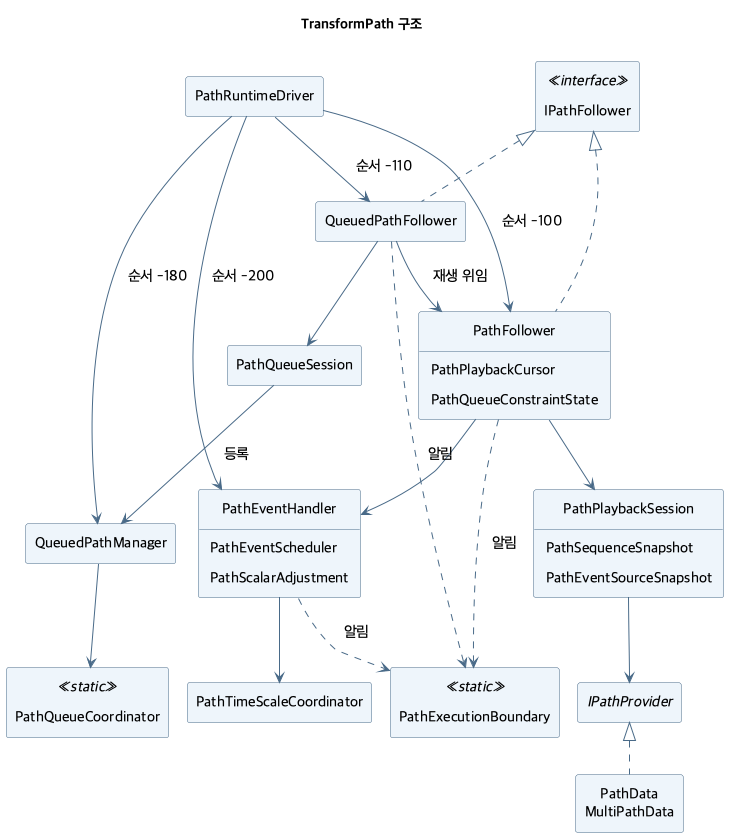
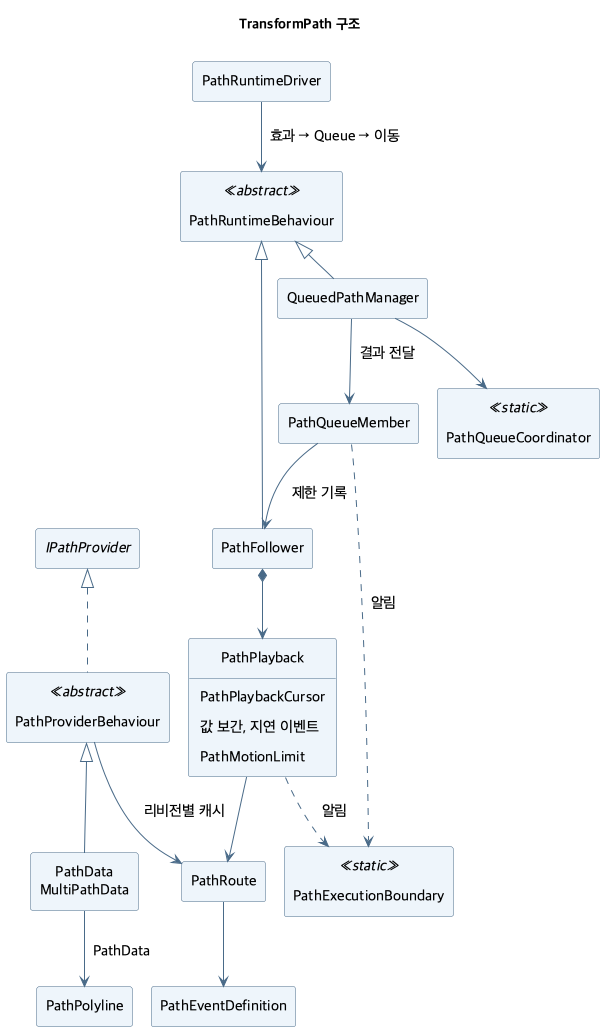
TransformPath 문서, UML, 테스트 실행 스크립트를 새 구조에 맞춤
README의 재생 API, Queue, 이벤트 절과 TechnicalNotes를 새 구조로 다시 쓰고
구조 규칙 절을 추가한다. UML 세 개를 고쳐 다시 렌더링한다.
EditMode 테스트를 스냅샷 worktree에서 돌리는 Tools/run-transformpath-tests.sh를 추가한다.

diff --git a/ToyProject/Assets/_TransformPath/Docs/TechnicalNotes.md b/ToyProject/Assets/_TransformPath/Docs/TechnicalNotes.md
@@ -6,43 +6,54 @@
 
 | 어셈블리 | 내용 |
 | --- | --- |
-| `Common.TransformPath.Runtime` | 계약, Provider, 재생, 이벤트, Queue |
+| `Common.TransformPath.Runtime` | 계약, Provider, Route, 재생, 이벤트, Queue |
 | `Common.TransformPath.Editor` | Inspector, 연결점과 그룹 동기화, Scene View 미리보기 |
+| `Common.TransformPath.Tests` | EditMode 테스트(기하, Route, 재생 엔진, Queue 계산) |
 | `Common.TransformPath.Samples` | Showcase UI, 샘플 카메라 |
 | `Common.TransformPath.PlayerProbe` | Player 측정 (`Tools/run-transformpath-probe.sh`). Editor와 측정 빌드에서만 컴파일 |
 
+Runtime 폴더는 역할로 나눕니다: `Core`(계약, 상수, 이벤트 정의), `Geometry`, `Providers`, `Playback`, `Queue`, `Execution`(Driver, Boundary), `Components`, `Utilities`.
+
+## 구조 규칙
+
+1. **상태 소유자는 하나입니다.** 재생 상태는 `PathPlayback`, Queue 순서와 계산은 `QueuedPathManager`, 경로 데이터는 Provider만 바꿉니다. 다른 타입은 읽기만 하고 사본을 두지 않습니다.
+2. **변경 판정은 Provider가 한 번만 합니다.** `PathProviderBehaviour.Rebuild`가 이전 게시와 비교해 `Revision`과 `DefinitionRevision`을 올리고, 소비자는 이 두 값만 비교합니다.
+3. **순수 계산과 Unity 연결을 나눕니다.** `PathPolyline`, `PathRoute`, `PathPlaybackCursor`, `PathPlayback`, Queue 계산은 MonoBehaviour와 정적 상태에 기대지 않아 EditMode 테스트로 검증합니다. 컴포넌트는 직렬화, 생명주기, Transform 적용만 맡습니다.
+4. **검증은 경계에서 한 번만 합니다.** 공개 명령의 입력과 Provider 빌드만 검증합니다.
+5. **공통 값과 헬퍼는 한 곳에 둡니다.** 상수는 `PathConstants`, 수치 검증과 곡선 복사는 `PathValueUtility`, 정렬은 `PathSortUtility`, 1회 오류 보고는 `PathConfigurationErrorReporter`입니다.
+6. **인터페이스는 교체할 이유가 있을 때만 둡니다.** 공개 인터페이스는 `IPathProvider`와 `IPathEventReceiver`뿐입니다.
+
 ## 수명 규칙
 
+- **실행 순서:** `PathRuntimeDriver`가 매 프레임 세 단계를 실행합니다. 효과(Follower의 값 보간과 지연 이벤트) → Queue(Manager의 계산과 멤버의 제한 기록) → 이동(Follower). 같은 단계에서는 등록 순서를 따릅니다.
+- **프레임 고정:** Tick 시작에 대상, PlaybackId, 등록 버전을 복사하고 실행 직전에 다시 비교합니다. 그 프레임에 등록하거나 재생이 바뀐 대상은 다음 프레임부터 실행합니다.
 - **외부 코드:** 공개 명령과 Tick은 `PathExecutionBoundary.Enter()`로 작업을 엽니다. 가장 바깥 작업이 끝나면 쌓인 리스너와 수신기를 선입선출로 호출합니다. 호출 중 생긴 알림은 큐 끝에 붙어 중첩되지 않습니다. 호출 직전에 구독 여부를 다시 확인하고, 한 번에 10만 건을 넘으면 오류를 기록하고 남은 알림을 버립니다.
-- **내부 관찰:** `QueuedPathFollower`는 작업 안에서 반응해야 하므로 `PathFollower`의 `ObservedStateChanged`, `ObservedSegmentChanged`, `ObservedCompleted`, `LoopBoundary`를 동기로 받습니다. 시작을 거부하면 리스너는 남은 상태만 듣습니다.
 - **PlaybackId:** 재생을 시작할 때마다 새로 발급하고 Seek와 Pause에서는 유지합니다. 재생이 끝나면 0입니다.
-- **StateRevision:** 명령이 재생 상태를 바꿀 때마다 올립니다. Seek는 위치가 바뀔 때만 올립니다.
-- **프레임 고정:** `PathRuntimeDriver`는 Tick 시작에 대상, PlaybackId, 등록 버전을 복사하고 실행 직전에 다시 비교합니다. 그 프레임에 등록하거나 재생이 바뀐 대상은 다음 프레임부터 실행합니다.
-- **실패 격리:** Tick 예외는 `Faults`에 모으고 `HandleRuntimeFault`로 해당 재생을 정리합니다. 다른 대상은 계속 실행하고 `PathRuntimeDriverBehaviour`가 예외를 기록합니다.
-- **완료 순서:** 끝점 위치와 남은 이벤트 → 재생 효과와 제약 정리 → CharacterController 복원 → `StateChanged(Completed)` → `Completed`.
+- **실패 격리:** Tick 예외는 `Faults`에 모으고 `OnTickFault`로 해당 재생을 정리합니다. 다른 대상은 계속 실행하고 `PathRuntimeDriverBehaviour`가 예외를 기록합니다.
+- **완료 순서:** 끝점의 남은 이벤트 → 재생 효과 정리 → CharacterController 복원 → `StateChanged(Completed)` → `Completed`.
 - **전환 한도:** 한 Tick의 구간 전환은 65회까지입니다. 남은 시간은 다음 Tick으로 넘기고, Pause, Stop, Seek에서 버립니다.
 
-## 재생
+## 경로와 재생
 
-- `PathPlaybackSession`은 Single과 Sequence의 차이를 경로 접근자(`GetLength`, `GetEventSource`, `Sample`, `FindSegment`, `GetMovementSettings` 등) 뒤에 숨깁니다. 같은 Provider와 Revision이면 다음 시작에서 재사용합니다.
+- `PathData`는 Transform 제어점을 곡선별로 샘플링한 `PathPolyline`을 발행합니다. 위치는 누적 거리로 보간하므로 진행률이 일정하면 샘플 사이에서 속도가 일정합니다. 스플라인은 매개변수로 샘플링하므로 샘플 수가 적으면 구간마다 속도가 달라집니다(테스트 기준 500샘플에서 최대 편차 0.05% 이하).
+- `MultiPathData`는 `PathData`만 구간으로 받습니다. 자식의 `PathChanged`를 구독해 자식이 바뀌면 다시 빌드하므로 자식을 폴링하지 않습니다. 빌드할 때 아직 빌드되지 않은 자식을 먼저 빌드해, Awake 순서에 기대지 않습니다.
+- `PathRoute`는 구간 배열(샘플러, 시작 거리, 길이, 이동 설정, 속도 보존, 이벤트)입니다. Single과 Sequence는 Provider가 리비전별로 하나를 캐시해 Follower들이 함께 쓰고, Aggregate는 Provider 전체를 한 구간으로 만듭니다.
 - `PathPlaybackCursor`는 위치, 잔여 시간, Speed, Duration을 소유합니다. 완료 판정은 이벤트 처리 뒤의 현재 Duration을 씁니다.
-- `PathSequenceSnapshot.TryGetCurrent`와 `PathEventSourceSnapshot.GetCurrent`는 Provider와 Revision별로 스냅샷 하나를 공유합니다. 불변 객체이므로 같은 경로의 Follower가 함께 씁니다. 새 스냅샷이 이전 스냅샷과의 비교 결과를 기억하고, 교체될 때 그 참조를 끊어 스냅샷이 줄줄이 남지 않게 합니다.
-- 시작은 후보 Session을 지역 변수로 준비해 전달합니다. 그 사이 외부 코드가 실행되지 않으므로 다시 검증하지 않습니다.
-- 재생 세션은 첫 `StartPlayback`부터 `Release`까지 남습니다. 재생이 끝난 뒤의 `Seek`는 위치만 옮기고, `SetSpeed`와 `SetDuration`은 값만 바꾸며, 어느 쪽도 재생을 다시 시작하지 않습니다.
-- `PathFollower`를 추가하면 `PathEventHandler`가 함께 추가됩니다. CharacterController는 재생 중 꺼 두고 끝나면 복원하며, Inspector에서 끌 수 있습니다.
-- `SetRotateToPathDirection`은 지속 회전을, `AlignRotationToPathDirection`은 선택한 축의 일회 정렬을 제어합니다.
+- `PathMovementSettings`는 생성할 때 시간 곡선을 한 번 복사해 밖으로 내주지 않습니다. 그래서 여러 Follower가 방어 복사 없이 공유합니다. TimeBased의 빈 곡선은 선형으로 해석합니다.
+- 재생 세션은 첫 `Play`부터 컴포넌트가 파괴될 때까지 남습니다. 재생이 끝난 뒤의 `Seek`는 위치만 옮기고, `SetSpeed`와 `SetDuration`은 값만 바꾸며, 어느 쪽도 재생을 다시 시작하지 않습니다.
+- CharacterController는 재생 중 꺼 두고 끝나면 복원하며, Inspector에서 끌 수 있습니다.
+- `RotateToPathDirection`은 지속 회전을, `AlignRotationToPathDirection`은 선택한 축의 일회 정렬을 제어합니다.
 
 ### 콜백 규칙
 
-- 콜백이 실행될 때는 이벤트 효과와 초기 위치가 이미 반영되어 있습니다. 앞선 콜백이 상태를 바꿨을 수 있으니 인자보다 현재 상태를 읽습니다.
+- 콜백이 실행될 때는 이벤트 효과와 위치가 이미 반영되어 있습니다. 앞선 콜백이 상태를 바꿨을 수 있으니 인자보다 현재 상태를 읽습니다.
 - 대기 중에 구독을 해제한 리스너는 호출되지 않고, 발행 뒤에 구독한 리스너는 그 알림을 듣지 않습니다.
 - `PathData`와 `MultiPathData`의 `PathChanged`만 예외로 변경 작업 안에서 바로 호출됩니다. 이 콜백의 예외도 기록만 됩니다.
-- 직접 구현한 `IQueuedPathAgent`의 멤버에서 Queue를 바꾸면 `InvalidOperationException`이 발생합니다. 읽기는 할 수 있습니다.
 
 ### Seek
 
 - 먼저 입력과 Provider 준비 상태를 검증합니다. 실패하면 아무것도 바뀌지 않습니다.
-- 같은 위치면 `Changed=false`입니다. 위치가 바뀌면 잔여 시간을 버리고 Queue 제약은 다음 결과를 기다립니다.
+- 같은 위치면 `false`입니다. 위치가 바뀌면 잔여 시간을 버리고, Queue 멤버는 다음 결과에서 속도를 0부터 다시 올립니다.
 - 이벤트 커서는 목표 위치와 그 이전을 건너뜁니다. 뒤로 Seek하면 다시 통과하는 이벤트는 또 실행됩니다. Seek는 `SegmentChanged`를 보내지 않습니다.
 - `Seek(1f)`는 즉시 완료하지 않고 다음 이동 Tick에서 판정합니다.
 - 구간 경계는 `[start, end)`이며 마지막 구간의 끝 1은 허용합니다.
@@ -51,59 +62,55 @@
 
 ### 경로 변경
 
-Moving 상태의 다음 Tick에 `EvaluateRefresh`로 판단하므로 Pause 중에는 Resume까지 미룹니다.
+이동 중인 다음 Tick에 리비전을 비교하므로 Pause 중에는 Resume까지 미룹니다.
 
-| 변경 | Single | Aggregate | Sequence |
-| --- | --- | --- | --- |
-| 기하, 길이 | 로컬 진행률 유지 | 로컬 진행률과 지정 설정 유지 | 구간 로컬 진행률 유지, 전체 진행률 재계산 |
-| Provider 이동 설정 | 중단 | 무시 | 구간 설정이 바뀌면 중단 |
-| 이벤트 정의 | 중단 | 이벤트 원본이 있으면 중단 | 구간 이벤트가 바뀌면 중단 |
-| 구간 수, 순서, Provider | 해당 없음 | 해당 없음 | 중단 |
-| 준비 상태 무효 | 중단 | 중단 | 중단 |
+| 변경 | 결과 |
+| --- | --- |
+| `Revision`만 바뀜 (기하, 길이) | 구간 로컬 진행률을 유지하고 새 Route로 이어서 재생 |
+| `DefinitionRevision` 바뀜 (이동 설정, 이벤트, 구간 구성) | 정지. Aggregate도 같음 |
+| Provider 준비 상태 무효 | 정지 |
 
 ## Queue
 
-<img src="Images/transformpath-queue.png" alt="Queue 등록부터 프레임 계산과 해제까지의 순서" width="80%">
+<img src="Images/transformpath-queue.png" alt="Queue 참여부터 프레임 계산과 이탈까지의 순서" width="80%">
 
-- **Agent 호출:** Manager는 Agent 멤버를 호출하는 동안 `Register`, `Unregister`, `ConfigureRoute`, `Release`를 `InvalidOperationException`으로 거부합니다. `QueuedPathFollower`는 이 안에서 Queue를 바꾸지 않습니다.
-- **소유권:** `QueuedPathManager.Register`가 발급한 `PathQueueRegistration`이 등록을 나타냅니다. 토큰의 `RouteRevision`은 등록 당시 값이고 `PathQueueConstraint.RouteRevision`은 그 계산의 값입니다. 기하가 바뀌어도 등록은 유지하며, 구간 구조가 바뀌면 모든 Agent를 해제합니다.
-- **계산:** Manager는 프레임마다 진행도를 복사해 정렬하고, 앞 Agent부터 거리, 대기, 속도 배율, 진행 상한을 계산합니다(`PathQueueCoordinator`). 재생이 끝난 등록은 앞 Agent로 치지 않습니다. 정렬과 목록은 할당하지 않고, 인덱스는 순서가 바뀐 프레임에만 다시 만듭니다.
-- **적용:** 다른 재생이나 경로 버전, 이전 프레임의 결과는 `QueuedPathFollower`와 `PathQueueConstraintState`가 버립니다. 등록 직후와 Seek 뒤에는 첫 결과가 올 때까지 멈춥니다.
-- **완화:** `PathQueueSession.Step`이 수동 대기, 재출발 지연, 추가 간격, 속도 보간을 계산합니다.
-- **위반:** `ConstraintViolation`은 시작 때 지정한 진행 상한만 봅니다. Manager의 상한은 앞 Agent를 따라 움직이므로, 재개나 경로 단축으로 넘어선 Agent는 기다립니다.
-- **Pause와 ForceBlock:** Pause는 등록을 해제해 간격 계산에서 빠지고, ForceBlock은 등록을 유지합니다. Queue에 참여하지 않을 때의 ForceBlock은 재생과 표시를 바꾸지 않고 다음 Queue 시작까지 대기 요청만 남깁니다. Resume은 Manager와 경로가 유효할 때 다시 등록하고, 아니면 Queue 참여를 무효화합니다.
-- **내부 Follower 직접 시작:** 같은 경로면 재등록하고 수동 대기와 상한을 유지합니다. 다른 경로면 `ProviderInvalid`로 끝냅니다.
-- **Loop:** 경계에서 재등록해 Agent 순서를 다시 잡습니다.
-- **기본값:** 간격 1.5, 감속 시작 거리 3, 최소 속도 배율 0.1, 재출발 지연 0.1초, 추가 간격 0.3, 속도 보간율 5이며 Inspector에서 바꿉니다. `StartPlayback(request)`는 Inspector에 지정한 Manager로 시작합니다.
-- **대기 알림:** `OnBlocked`와 `OnResumed`는 Tick에서 관찰한 `IsBlocked`의 변화와 짝을 이룹니다. 시작, Seek, Loop 뒤의 첫 결과 대기도 포함하며, 대기가 한 Tick 안에 끝나면 둘 다 오지 않습니다. `ForceBlock`의 알림은 다음 Tick에 옵니다. `DetachQueue`나 `StartFreePlayback`으로 Queue를 떠나면 `OnResumed`와 `OnSpeedChanged`가 바로 옵니다. 정지와 완료는 `StateChanged`와 `Completed`로만 알립니다.
-- **무효화:** `QueueInvalidated`의 이유는 `ProviderInvalid`(경로 준비 안 됨), `ManagerReleased`, `ConstraintViolation`(최대 진행률 초과)입니다. 앞 Agent와의 간격 부족은 위반이 아니라 대기입니다.
+- **참여:** `PathQueueMember.StartQueuedPlayback`이 Follower를 재생하고 Manager에 참여합니다. 참여 직후와 재생이 바뀐 뒤에는 첫 결과와 재출발 지연까지 기다립니다.
+- **계산:** Queue 단계에서 Manager가 재생이 끝났거나 다른 경로를 재생하는 멤버를 빼고, 진행률로 정렬한 뒤 앞 멤버부터 거리, 대기, 속도 배율, 진행 상한을 계산합니다(`PathQueueCoordinator`). 정렬은 할당 없는 삽입 정렬이고, 결과는 참여 순서대로 전달합니다.
+- **완화:** `PathQueueWait.Step`이 수동 대기, 재출발 지연, 추가 간격, 속도 보간을 계산하고, 멤버가 그 결과를 Follower의 이동 제한으로 기록합니다. Follower가 새 경로 리비전을 받기 전 프레임은 막습니다.
+- **Pause와 Hold:** 일시정지한 멤버는 줄에 남아 뒤 멤버를 막고, 재개하면 첫 결과부터 기다립니다. `Hold`는 Queue에 남은 채 대기를 요청하며, Queue 밖에서 부르면 다음 Queue 시작부터 적용됩니다.
+- **최대 진행률:** 그 지점에서 멈추고 완료하지 않습니다. 넘어선 멤버는 그 자리에서 기다립니다.
+- **Loop:** 진행률이 0으로 돌아가면 정렬로 순서가 다시 잡힙니다. 이음매의 간격은 보지 않습니다.
+- **이탈:** 재생이 끝나거나 멈추면 다음 Queue 단계에서 빠집니다(`Completed`, `Stopped`). `Leave`는 재생을 유지한 채 빠지며 `Resumed`와 `SpeedChanged`가 바로 옵니다. 경로가 준비되지 않거나 Manager가 해제되면 재생을 멈추고 `QueueInvalidated`(`ProviderInvalid`, `ManagerReleased`)를 보냅니다. 구간 구성이 바뀌어도 `ManagerReleased`로 모두 빠집니다.
+- **기본값:** 간격 1.5, 감속 시작 거리 3, 최소 속도 배율 0.1, 재출발 지연 0.1초, 추가 간격 0.3, 속도 보간율 5이며 Inspector에서 바꿉니다. `StartQueuedPlayback(request)`는 Inspector에 지정한 Manager로 시작합니다.
+- **대기 알림:** `Blocked`와 `Resumed`는 Queue 단계에서 관찰한 대기 상태의 변화와 짝을 이룹니다. 대기가 한 Tick 안에 끝나면 둘 다 오지 않습니다. `Hold`의 알림은 다음 Tick에 옵니다. 정지와 완료는 `StateChanged`와 `Completed`로만 알립니다.
 
 ## 이벤트
 
 - 작성 위치는 `0..0.995`이고 같은 위치는 작성 순서를 따릅니다. 위치 0의 이벤트도 재생 시작 후 첫 이동에서 실행됩니다.
-- 수신기는 `PathEventHandler`의 `Init`에서 한 번 읽습니다. `HandleEvent(setting)`은 전달한 SO의 현재 값을 바로 실행하며, 경로에 등록된 복사본에는 `Rebuild` 전까지 반영되지 않습니다.
-- 지연 이벤트는 게임 시간을 쓰고, 다음 이벤트가 실행되면 남은 지연이 취소됩니다. TimeScale 목표 0과 함께 쓰면 영원히 실행되지 않으므로 거부합니다.
-- Pause 이벤트는 목표값이 `SpeedBased`에서 속도 0, `TimeBased`에서 Duration 9999인 이벤트입니다. 재생을 시작할 때 다음을 검증합니다.
-  1. Pause의 보간 시간은 0입니다.
-  2. **Use Delayed Events**를 켜고 지연 이벤트를 정확히 1개 둡니다. 지연은 양수입니다.
-  3. 그 이벤트는 같은 이동 방식의 Resume입니다. 속도는 양수, Duration은 9999 미만, 보간 시간은 0이고 지연 이벤트가 없어야 합니다.
-- 직접 호출하는 `SetSpeed(0)`은 범위 예외가 나고 `SetDuration(9999)`는 Pause하지 않습니다. 위 해석은 이벤트에만 적용됩니다.
-- `PathEventDefinition`은 `PathEventSettingSO`의 불변 복사본입니다. Provider가 위치순으로 안정 정렬해 발행하고 Session이 스냅샷으로 고정합니다.
-- 한 이벤트의 처리 순서는 알림 예약 → Pause, Resume → TimeScale → 값 보간 → 지연 이벤트 예약입니다. 알림은 경계 뒤에 전달되므로 수신기는 효과가 적용된 상태를 봅니다. 수신기가 `OnEventDispatched`보다 먼저 호출됩니다.
-- 값 보간(`PathScalarAdjustment`)은 시작한 구간의 이동 방식까지만 이어집니다. 이동 방식이 다른 구간에 들어가거나 Pause하면 취소합니다.
-- `PathTimeScaleCoordinator`는 Follower별로 소유권을 구분합니다. 오래된 재생의 해제가 새 효과를 지우지 않습니다.
-- 재생이 끝나면 지연 이벤트, 값 보간, TimeScale을 함께 정리합니다(`CancelPlaybackEffects`).
+- `PathEventDefinition`은 `PathEventSettingSO`의 불변 복사본이며, 만들 때 한 번 검증합니다(목표값 `0.001..9999`, 보간 시간과 지연 0 이상, 보간에는 곡선 필요, 지연 체인 순환 금지). 잘못된 이벤트가 있으면 경로 빌드가 실패합니다.
+- 한 이벤트의 처리 순서는 이름 알림 예약 → Lifecycle(Pause 또는 Resume) → 현재 이동 방식의 값 변경 → 지연 이벤트 예약입니다. Pause 이벤트는 값을 바꾸지 않습니다. 알림은 경계 뒤에 전달되므로 수신기는 효과가 적용된 상태를 봅니다. 수신기가 `EventReached`보다 먼저 호출됩니다.
+- 지연 이벤트는 게임 시간을 쓰고, 다음 경로 이벤트가 실행되면 남은 지연이 취소됩니다. 지연 0은 바로 실행합니다. 상태나 값을 바꾼 지연 이벤트가 있으면 같은 프레임의 나머지 지연 이벤트는 다음 프레임으로 미룹니다.
+- 값 보간은 시작한 구간의 이동 방식까지만 이어집니다. 이동 방식이 다른 구간에 들어가거나 Pause하면 취소합니다.
+- `TriggerEvent(setting)`은 전달한 에셋의 현재 값을 바로 실행하며, 경로에 등록된 복사본에는 다음 빌드 전까지 반영되지 않습니다.
+- 재생이 끝나면 지연 이벤트와 값 보간을 함께 정리합니다.
 
 ## Editor
 
-- `PathEditorChangeMonitor`가 Hierarchy, 속성, Undo/Redo, 리로드 변경을 모아 `MultiPathAutoLinker`와 `PathWaypointSyncLinker`에 전달합니다. Transform 이동만으로는 대상 캐시를 지우지 않아 이전 위치와 비교할 수 있습니다.
-- `PathDataScenePreviewCache`는 살아 있는 경로의 버퍼를 재사용하고, 삭제된 경로와 닫힌 Preview Scene의 항목을 지웁니다. PlayMode 전환과 리로드에서 비웁니다.
+- `PathEditorChangeMonitor`가 Hierarchy, 속성, Undo/Redo, 리로드 변경을 모으고, `PathTrackedTargets`가 Linker별 대상 목록을 그 변경에서만 다시 찾습니다. `MultiPathAutoLinker`(연결점)와 `PathWaypointSyncLinker`(그룹 동기화)는 동기화 규칙만 가집니다. Transform 이동만으로는 대상 캐시를 지우지 않아 이전 위치와 비교할 수 있습니다.
+- `PathDataScenePreviewCache`는 런타임의 `PathPolyline`을 만들어 살아 있는 경로의 미리보기를 재사용하고, 삭제된 경로의 항목을 지웁니다. PlayMode 전환과 리로드에서 비웁니다.
+- 이동 설정 UI와 Rebuild·이벤트 정렬 도구는 `PathInspectorGUI`에 있습니다. `MultiPathData`의 미리보기 크기 적용과 구별 색 지정은 버튼으로만 실행합니다.
 - Scene View는 이벤트 위치와 이름을 표시만 합니다. 이벤트 진행률은 Inspector에서 편집합니다.
 
 <p align="center">
   <img src="Images/editor-ui-multipath-inspector.png" alt="MultiPathData Inspector" width="48%">
   <img src="Images/editor-ui-waypoint-inspector.png" alt="PathWaypointSyncRegistry Inspector" width="48%">
 </p>
+
+## 검증
+
+- EditMode 테스트: `Tools/run-transformpath-tests.sh`
+- Player 측정: `Tools/run-transformpath-probe.sh`
+- IL2CPP 빌드: `Tools/run-il2cpp-build.sh`
 
 ## UML 갱신
 

diff --git a/ToyProject/Assets/_TransformPath/README.md b/ToyProject/Assets/_TransformPath/README.md
@@ -16,7 +16,7 @@ Transform 제어점으로 경로를 만들고 단일 경로, 연결 경로, Queu
 
 1. 샘플 씬을 실행해 Normal, Multi, Queue 레인을 확인합니다. macOS 입력 소스가 한글이면 샘플의 글자 키가 동작하지 않습니다.
 2. GameObject에 `PathData`를 추가하고 Inspector의 **Create Path Points**로 제어점을 2개 이상 만듭니다.
-3. Movement에서 Duration이나 Speed(`0.001..9999`)를 지정하고 **Rebuild Runtime Path**를 누릅니다.
+3. Movement에서 Duration이나 Speed(`0.001..9999`)를 지정합니다. Play Mode에서 `PathData`는 Awake에서 스스로 빌드합니다.
 4. 이동할 GameObject에 `PathFollower`를 추가하고 재생을 시작합니다.
 
 ```csharp
@@ -30,14 +30,13 @@ public sealed class TransformPathReadmeExample : MonoBehaviour
 
     private void Start()
     {
-        _path.Init();
         if (!_path.IsReady)
         {
             Debug.LogError("PathData의 제어점과 이동 설정을 확인하세요.", _path);
             return;
         }
 
-        _follower.StartPlayback(PathPlaybackRequest.Single(_path));
+        _follower.Play(PathPlaybackRequest.Single(_path));
     }
 }
 ```
@@ -48,44 +47,47 @@ public sealed class TransformPathReadmeExample : MonoBehaviour
 
 <img src="Docs/Images/transformpath-structure.png" alt="TransformPath 주요 타입의 구조" width="100%">
 
-- **Provider** (`PathData`, `MultiPathData`)는 검증한 기하와 이벤트를 발행하고, 내용이 바뀌면 `Revision`을 올립니다.
-- **PathFollower**는 재생과 이동을 맡고, **QueuedPathFollower**는 여기에 Queue 참여를 더합니다. 간격은 `QueuedPathManager`가 계산합니다.
-- **PathRuntimeDriver**가 한 프레임의 실행 순서를, **PathExecutionBoundary**가 콜백 시점을 정합니다.
+- **Provider** (`PathData`, `MultiPathData`)는 검증한 기하와 이벤트를 한 번에 발행합니다. 무엇이든 바뀌면 `Revision`을, 이동 설정·이벤트·구간 구성이 바뀌면 `DefinitionRevision`도 올립니다.
+- **PathFollower**는 Transform에 위치를 적용하고, 재생과 이벤트 효과는 내부의 `PathPlayback`이 맡습니다. Single, Sequence, Aggregate 재생은 모두 구간 배열 하나(`PathRoute`)로 표현됩니다.
+- **QueuedPathManager**가 매 프레임 멤버를 정렬해 간격을 계산하고, **PathQueueMember**가 그 결과를 완화해 Follower의 이동을 제한합니다.
+- **PathRuntimeDriver**가 효과 → Queue → 이동 순서로 한 프레임을 실행하고, **PathExecutionBoundary**가 콜백 시점을 정합니다.
 
 ## 재생 API
 
 | 요청 | 이동 설정 |
 | --- | --- |
-| `PathPlaybackRequest.Single(path, loop)` | 경로의 설정 |
+| `PathPlaybackRequest.Single(pathData, loop)` | 경로의 설정 |
+| `PathPlaybackRequest.Sequence(multiPathData, loop)` | 구간별 설정 |
 | `PathPlaybackRequest.Aggregate(provider, settings, loop)` | 지정한 설정으로 Provider 전체 |
-| `PathPlaybackRequest.Sequence(sequence, loop)` | 구간별 설정 |
 
 | 명령 | 조건 |
 | --- | --- |
-| `StartPlayback`, `StopMove`, `PauseMove`, `ResumeMove` | `StartPlayback`은 준비된 Provider가 필요 |
+| `Play`, `Stop`, `Pause`, `Resume` | `Play`는 준비된 Provider가 필요 |
 | `Seek(0..1)`, `SeekSegment(index, local)` | `SeekSegment`는 Sequence 전용. 건너뛴 이벤트는 실행하지 않음 |
 | `SetSpeed(value)`, `SetDuration(value)` | 현재 구간의 이동 방식과 맞을 때, `0.001..9999` |
+| `TriggerEvent(setting)` | 이벤트 에셋을 지금 실행 |
 
-- 명령은 `PlaybackId`, `StateRevision`, `Changed`를 담은 `PathCommandReceipt`를 반환합니다. 조건을 어기면 `InvalidOperationException`, 값이 범위 밖이면 `ArgumentOutOfRangeException`입니다.
-- 런타임에 제어점이나 `PathEventSettingSO`를 바꾸면 `path.Rebuild()`를 호출합니다. 기하만 바뀌면 재생이 이어지고, 사용 중인 이동 설정·이벤트·시퀀스 구성이 바뀌면 멈춥니다.
-- 콜백(`StateChanged`, `SegmentChanged`, `Completed`, Queue 알림, 이벤트 수신기)은 그것을 일으킨 작업이 끝난 뒤 순서대로 호출됩니다. 콜백 안에서 모든 명령을 쓸 수 있고, 예외는 Console에 기록만 됩니다.
+- 명령은 상태가 바뀌었는지를 `bool`로 반환합니다. 조건을 어기면 `InvalidOperationException`, 값이 범위 밖이면 `ArgumentOutOfRangeException`이며, 예외가 나면 아무것도 바뀌지 않습니다.
+- 상태는 `State`, `Progress`(전체), `SegmentProgress`, `SegmentIndex`, `PlaybackId`로 읽습니다.
+- 런타임에 제어점이나 `PathEventSettingSO`를 바꾸면 `path.Rebuild()`를 호출합니다. `MovementSettings`, `CurveType`, `SegmentCount` 속성은 바꾸는 즉시 다시 빌드합니다. 기하만 바뀌면 재생이 이어지고, 이동 설정·이벤트·구간 구성이 바뀌면 멈춥니다.
+- 콜백(`StateChanged`, `SegmentChanged`, `Completed`, `EventReached`, Queue 알림, 이벤트 수신기)은 그것을 일으킨 작업이 끝난 뒤 순서대로 호출됩니다. 콜백 안에서 모든 명령을 쓸 수 있고, 예외는 Console에 기록만 됩니다.
 
 ## Queue
 
 ```csharp
-_queue.StartQueuedPlayback(_manager, PathPlaybackRequest.Single(_path));
+_member.StartQueuedPlayback(_manager, PathPlaybackRequest.Single(_path));
 ```
 
-Agent와 Manager는 같은 Provider 인스턴스를 씁니다. 세 번째 인자로 최대 진행률을 지정하면 그 지점에서 멈추며 완료되지 않습니다.
+`PathQueueMember`는 `PathFollower`와 같은 GameObject에 둡니다. 멤버와 Manager는 같은 Provider 인스턴스를 씁니다. 세 번째 인자로 최대 진행률을 지정하면 그 지점에서 멈추며 완료되지 않습니다. 재생 제어(Pause, Seek, Stop)는 `member.Follower`로 합니다.
 
 | 명령 | 의미 |
 | --- | --- |
 | `StartFreePlayback(request)` | Queue를 떠나 일반 재생 |
-| `ForceBlock`, `ForceUnblock` | 등록을 유지한 채 대기, 해제 |
-| `PauseMove`, `ResumeMove` | 등록을 해제하고 멈춤, 재개하며 재등록 |
-| `DetachQueue` | 재생을 유지하고 Queue만 해제 |
+| `Hold`, `ReleaseHold` | Queue에 남은 채 대기, 해제 |
+| `Leave` | 재생을 유지하고 Queue만 떠남 |
+| `Follower.Pause`, `Follower.Resume` | 멈춘 멤버도 줄에 남아 뒤 멤버를 막음 |
 
-`OnBlocked`·`OnResumed`·`OnSpeedChanged`로 대기 상태를, `QueueInvalidated`로 경로 무효·Manager 해제·최대 진행률 초과를 알립니다. Queue는 같은 경로 위의 진행 거리만 봅니다. Loop 이음매의 간격, 물리 충돌, 교차 경로 회피는 처리하지 않습니다.
+`Blocked`·`Resumed`·`SpeedChanged`로 대기 상태를, `QueueInvalidated`로 경로 무효와 Manager 해제를 알립니다. 재생이 끝나거나 멈춘 멤버는 다음 프레임에 Queue에서 빠집니다. Queue는 같은 경로 위의 진행 거리만 봅니다. Loop 이음매의 간격, 물리 충돌, 교차 경로 회피는 처리하지 않습니다.
 
 <p align="center">
   <img src="Docs/Images/feature-queue-running.png" alt="Queue 레인이 간격을 유지하며 이동하는 화면" width="48%">
@@ -94,7 +96,13 @@ Agent와 Manager는 같은 Provider 인스턴스를 씁니다. 세 번째 인자
 
 ## 이벤트
 
-`PathData`의 이벤트(`0..0.995` 위치)는 `Rebuild` 때 복사되어 위치순으로 실행됩니다. 속도·Duration·TimeScale 조정, 지연 이벤트, Pause와 Resume을 지원합니다. 이름 알림은 `IPathEventReceiver`를 `PathEventHandler`의 **Receiver Object**에 연결하거나 `OnEventDispatched`를 구독해 받습니다. Pause 이벤트의 구성 규칙은 TechnicalNotes에 있습니다.
+`PathData`의 이벤트(`0..0.995` 위치)는 빌드 때 복사되어 위치순으로 실행됩니다. 이벤트 에셋(`PathEventSettingSO`)은 다음을 담습니다.
+
+- **Lifecycle**: `Pause`는 재생을 멈추고, `Resume`은 멈춘 재생을 재개합니다.
+- **속도 변경, Duration 변경**: 현재 구간이 SpeedBased면 속도 변경만, TimeBased면 Duration 변경만 적용합니다. 보간 시간과 곡선을 지정할 수 있습니다.
+- **지연 이벤트**: 게임 시간으로 지연한 뒤 다른 이벤트 에셋을 실행합니다. Pause 뒤 자동 재개는 지연된 Resume 이벤트로 만듭니다.
+
+이름 알림은 `IPathEventReceiver`를 `PathFollower`의 **Event Receiver**에 연결하거나 `EventReached`를 구독해 받습니다.
 
 <p align="center">
   <img src="Docs/Images/feature-path-events.png" alt="Pause 이벤트에서 멈춘 화면" width="48%">
@@ -117,7 +125,7 @@ Agent와 Manager는 같은 Provider 인스턴스를 씁니다. 세 번째 인자
   <img src="Docs/Images/feature-multipath-seek.png" alt="MultiPath Seek 화면" width="48%">
 </p>
 
-**Editor 작성:** 제어점은 Scene View에서, 이벤트는 Inspector에서 편집합니다. 연결점과 그룹 동기화는 Undo/Redo를 지원합니다.
+**Editor 작성:** 제어점은 Scene View에서, 이벤트는 Inspector에서 편집합니다. 연결점과 그룹 동기화는 Undo/Redo를 지원합니다. `MultiPathData` Inspector의 **Apply Drawing Sizes To All Paths**와 **Assign Distinct Path Colors**로 구간 경로의 미리보기 모양을 맞춥니다.
 
 <p align="center">
   <img src="Docs/Images/feature-editor-authoring.png" alt="Scene View의 경로 작성 화면" width="48%">

diff --git a/README.md b/README.md
@@ -23,4 +23,5 @@ Unity 프로젝트에서 쓰던 기능을 독립 모듈로 분리하고, `ToyPro
 | --- | --- |
 | `Tools/run-player-probe.sh` | Mac Player에서 FlowField 측정과 모든 샘플 씬 실행. 결과는 CSV |
 | `Tools/run-transformpath-probe.sh` | Mac Player에서 TransformPath 측정 |
+| `Tools/run-transformpath-tests.sh` | TransformPath EditMode 테스트 |
 | `Tools/run-il2cpp-build.sh` | Android IL2CPP 빌드. 기기에서 실행하지는 않습니다 |
